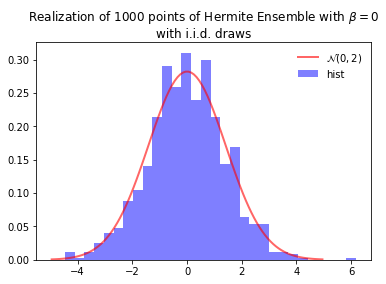
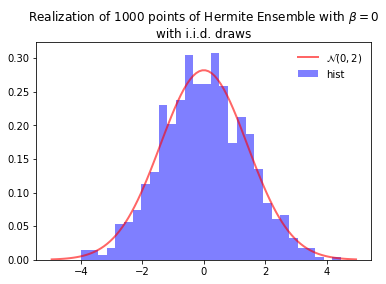
Fix Hermite display: points were normalized twice, clue was in Tuto_DPPy.md

diff --git a/dppy/beta_ensembles.py b/dppy/beta_ensembles.py
@@ -230,34 +230,25 @@ class HermiteEnsemble(BetaEnsemble):
 		title = '\n'.join([self._str_title(), str_beta])	 
 		plt.title(title)
 
-		if normalization:
-
-			points = self.normalize_points(points)
-
-			if self.beta == 0: 
+		if self.beta == 0: 
+			if normalization:
 			# Display N(0,2) reference measure of the full matrix model
 				mu, sigma = 0.0, np.sqrt(2.0)
 				x = mu + 3.5*sigma*np.linspace(-1, 1, 100)
 				ax.plot(x, sp_gaussian.pdf(x, mu, sigma), 
 							'r-', lw=2, alpha=0.6,
 							label=r'$\mathcal{{N}}(0,2)$')
+			else:
+				pass
 
-			else: # self.beta > 0
-				# Display the limiting distribution: semi circle law
+		else: # self.beta > 0
+			if normalization:
+			# Display the limiting distribution: semi circle law
 				x = np.linspace(-2, 2, 100)
 				ax.plot(x, rm.semi_circle_law(x), 
 							'r-', lw=2, alpha=0.6,
 							label=r'$f_{semi-circle}$')
-		else:
-			
-			if self.beta == 0: 
-			# Display N(mu, sigma^2) reference measure
-				mu, sigma = [self.params[key] for key in ['loc', 'scale']]
-				x = mu + 3.5*sigma*np.linspace(-1, 1, 100)
-				ax.plot(x, sp_gaussian.pdf(x, mu, sigma), 
-							'r-', lw=2, alpha=0.6,
-							label=r'$\mathcal{{N}}({:.2f},{:.2f})$'.format(mu, sigma**2))
-			else: # if beta > 0
+			else:
 				pass
 
 		if display_type == 'scatter':
@@ -280,7 +271,7 @@ class HermiteEnsemble(BetaEnsemble):
 		:param normalization: 
 			When ``True``, using :func:`normalize_points <normalize_points>`, display:
 
-			- If ``HermiteEnsemble.beta = 0`` :math:`\\mathcal{N}(0, 2)`
+			- If ``HermiteEnsemble.beta = 0`` :math:`\\mathcal{N}(0, 2)` reference measure associated to full :ref:`full matrix model <hermite_ensemble_full>`
 			- If ``HermiteEnsemble.beta > 0`` limiting distribution: semi-circle
 
 		:type normalization:
@@ -303,7 +294,7 @@ class HermiteEnsemble(BetaEnsemble):
 		:param normalization: 
 			When ``True``, using :func:`normalize_points <normalize_points>`, display:
 
-			- If ``HermiteEnsemble.beta = 0`` :math:`\\mathcal{N}(0, 2)`
+			- If ``HermiteEnsemble.beta = 0`` :math:`\\mathcal{N}(0, 2)` reference measure associated to full :ref:`full matrix model <hermite_ensemble_full>`
 			- If ``HermiteEnsemble.beta > 0`` limiting distribution: semi-circle
 
 		:type normalization:
@@ -590,7 +581,7 @@ class LaguerreEnsemble(BetaEnsemble):
 		:param normalization: 
 			When ``True``, using :func:`normalize_points <normalize_points>`, display:
 
-			- If ``LaguerreEnsemble.beta = 0`` :math:`\\Gamma(k, 2)`
+			- If ``LaguerreEnsemble.beta = 0`` :math:`\\Gamma(k, 2)` reference measure associated to full :ref:`full matrix model <laguerre_ensemble_full>`
 			- If ``LaguerreEnsemble.beta > 0`` limiting distribution: Marcenko-Pastur
 
 		:type normalization:
@@ -613,7 +604,7 @@ class LaguerreEnsemble(BetaEnsemble):
 		:param normalization: 
 			When ``True``, using :func:`normalize_points <normalize_points>`, display:
 
-			- If ``LaguerreEnsemble.beta = 0`` :math:`\\Gamma(k, 2)`
+			- If ``LaguerreEnsemble.beta = 0`` :math:`\\Gamma(k, 2)` reference measure associated to full :ref:`full matrix model <laguerre_ensemble_full>`
 			- If ``LaguerreEnsemble.beta > 0`` limiting distribution: Marcenko-Pastur
 
 		:type normalization:

diff --git a/notebooks/Tuto_DPPy_md/Tuto_DPPy.md b/notebooks/Tuto_DPPy_md/Tuto_DPPy.md
@@ -570,16 +570,16 @@ DPP.list_of_samples
 
 
 
-    [[8, 7, 2, 4],
-     [4, 5, 7, 3, 2],
-     [2, 6, 9, 4, 7],
-     [4, 1, 3, 7],
-     [3, 6, 1, 8],
-     [2, 3, 9, 6, 1],
-     [2, 0, 7, 3, 9, 4],
-     [7, 1, 4, 6],
-     [3, 8, 2, 4, 9],
-     [3, 6, 8, 7, 9, 0]]
+    [[6, 7, 9, 2, 1],
+     [0, 9, 3, 7, 8, 2, 4],
+     [8, 2, 6, 7, 3, 4],
+     [7, 4, 6, 2, 5, 9],
+     [9, 6, 1, 3, 7, 4, 8],
+     [7, 2, 3, 9, 4, 0, 1],
+     [2, 0, 4, 3, 8, 9, 7],
+     [2, 3, 4, 7, 0, 6, 1, 9],
+     [9, 7, 5, 8, 3, 6],
+     [6, 4, 9, 7, 8]]
 
 
 
@@ -623,7 +623,7 @@ print(DPP.list_of_samples)
 ```
 
     L (marginal) kernel available
-    [[[7, 6], [7, 2], [5, 2], [5, 2], [5, 2], [5, 2], [5, 2], [5, 2], [5, 2], [5, 2]]]
+    [[[8, 4, 0, 1], [8, 4, 0, 1], [8, 4, 7, 1], [8, 4, 7, 1], [8, 4, 7, 1], [8, 4, 7, 1], [8, 4, 7, 1], [8, 4, 7, 1], [8, 4, 7, 3], [8, 4, 7, 3]]]
 
 
 ##### b. Add-Delete:
@@ -638,7 +638,7 @@ print(DPP.list_of_samples)
 ```
 
     L (marginal) kernel available
-    [[[4, 2, 3, 6], [4, 2, 3, 6], [4, 2, 3, 6], [4, 2, 3, 6], [4, 2, 3, 6], [4, 2, 3], [4, 2, 3], [4, 2, 3], [4, 2, 3, 0], [4, 2, 3, 0]]]
+    [[[4, 7, 1], [4, 7, 1], [4, 7, 1, 2], [4, 7, 1, 2], [4, 7, 1, 2], [4, 7, 1, 2], [4, 7, 1, 2], [4, 7, 2], [4, 7, 2], [4, 7, 2]]]
 
 
 
@@ -655,7 +655,7 @@ print(DPP.list_of_samples)
     L (marginal) kernel computed via:
     - eig_L = eig_K/(1-eig_K)
     - U diag(eig_L) U.T
-    [[[1], [1], [1], [1], [1], [1], [1], [1], [1], []]]
+    [[[7, 2], [7, 2], [7, 2], [7, 2], [7, 2], [2], [2], [2], [2], [2]]]
 
 
 ##### c. ADE
@@ -668,7 +668,7 @@ print(DPP.list_of_samples)
 ```
 
     L (marginal) kernel available
-    [[[2, 5, 8], [2, 5, 8], [2, 5, 8], [2, 5, 8], [2, 5, 8], [2, 5, 8], [2, 5, 8], [2, 5, 8], [2, 5, 8], [2, 5, 8]]]
+    [[[0, 5, 6, 8], [0, 6, 8], [6, 8, 5], [6, 8, 5], [6, 8, 5], [6, 8, 5], [6, 8, 5], [6, 5, 2], [6, 5, 2], [6, 5]]]
 
 
 #### 2. Zonotope
@@ -684,16 +684,16 @@ DPP.sample_mcmc("zonotope")
 print(DPP.list_of_samples)
 ```
 
-    [array([[0, 1, 7, 8],
-           [1, 4, 6, 8],
-           [0, 1, 3, 6],
-           [0, 1, 3, 9],
-           [0, 1, 3, 9],
-           [0, 4, 6, 9],
-           [0, 4, 6, 9],
-           [1, 4, 6, 9],
-           [0, 3, 4, 6],
-           [0, 1, 3, 6]])]
+    [array([[2, 3, 5, 6],
+           [2, 3, 5, 6],
+           [2, 3, 5, 6],
+           [2, 3, 5, 6],
+           [2, 3, 5, 6],
+           [2, 3, 5, 6],
+           [2, 3, 5, 6],
+           [2, 3, 5, 6],
+           [2, 3, 5, 6],
+           [2, 3, 4, 6]])]
 
 
 ## II. 3. Exotic DPPs
